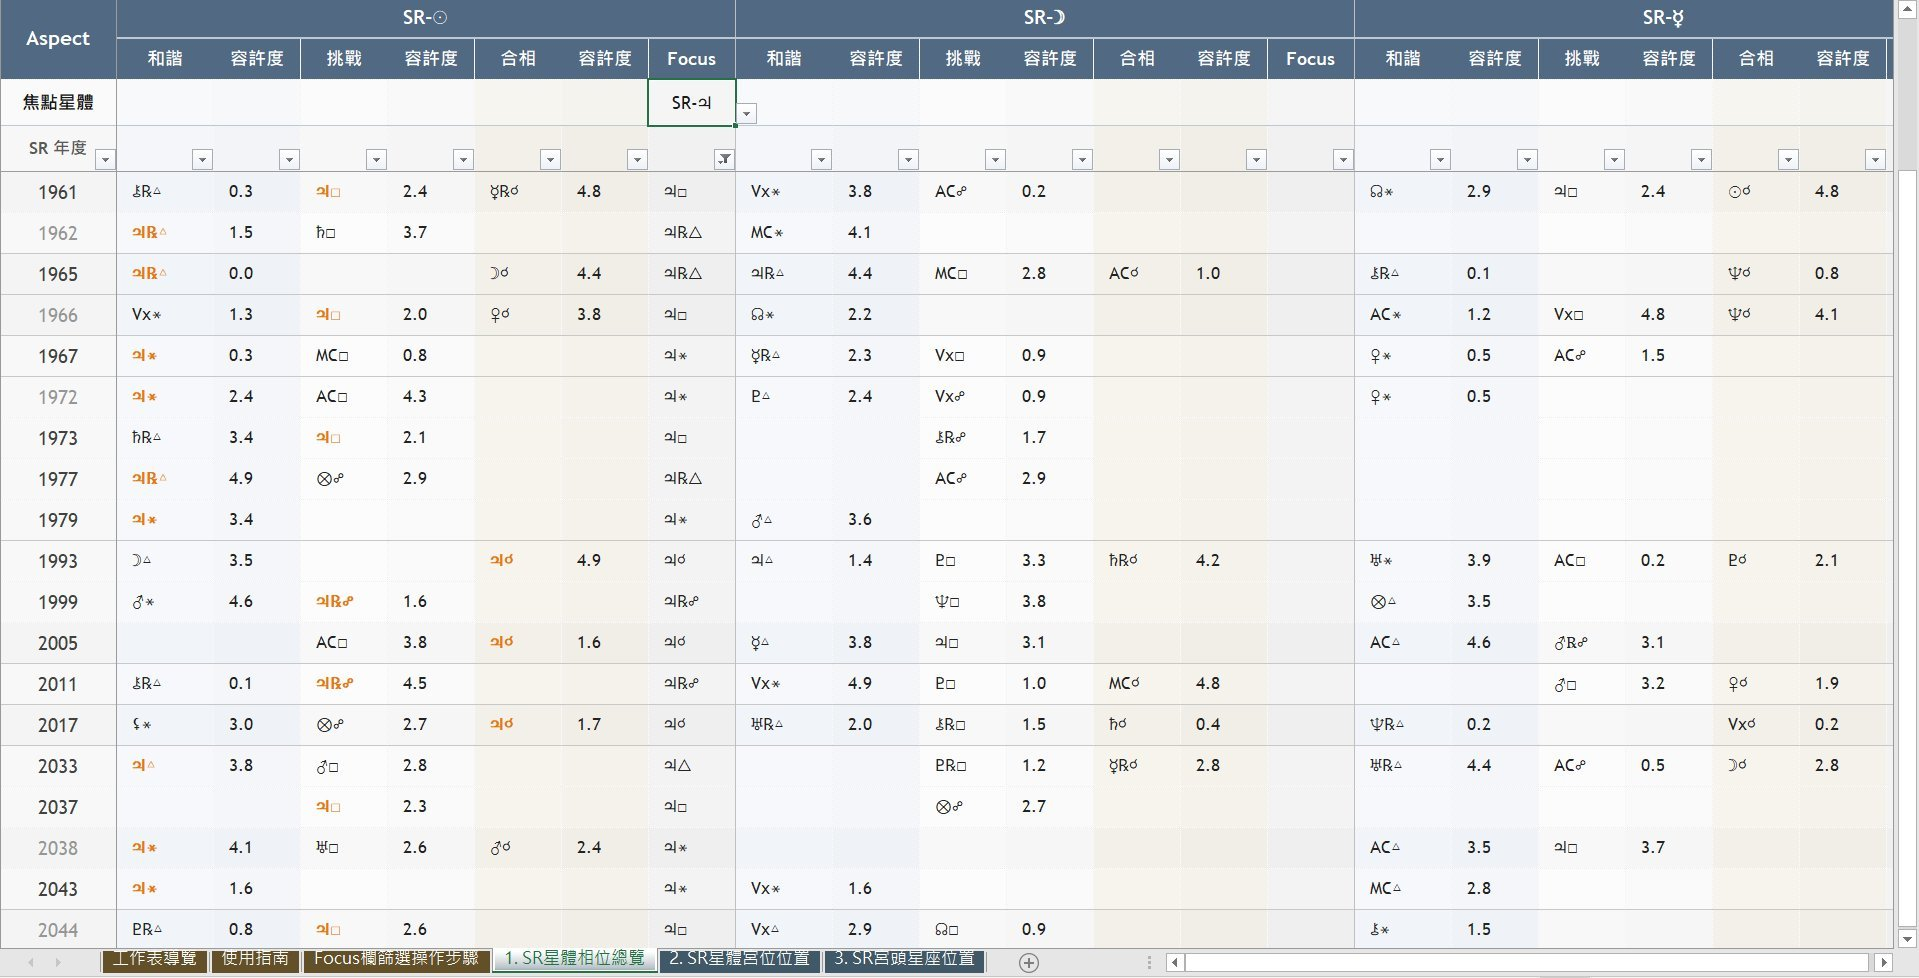
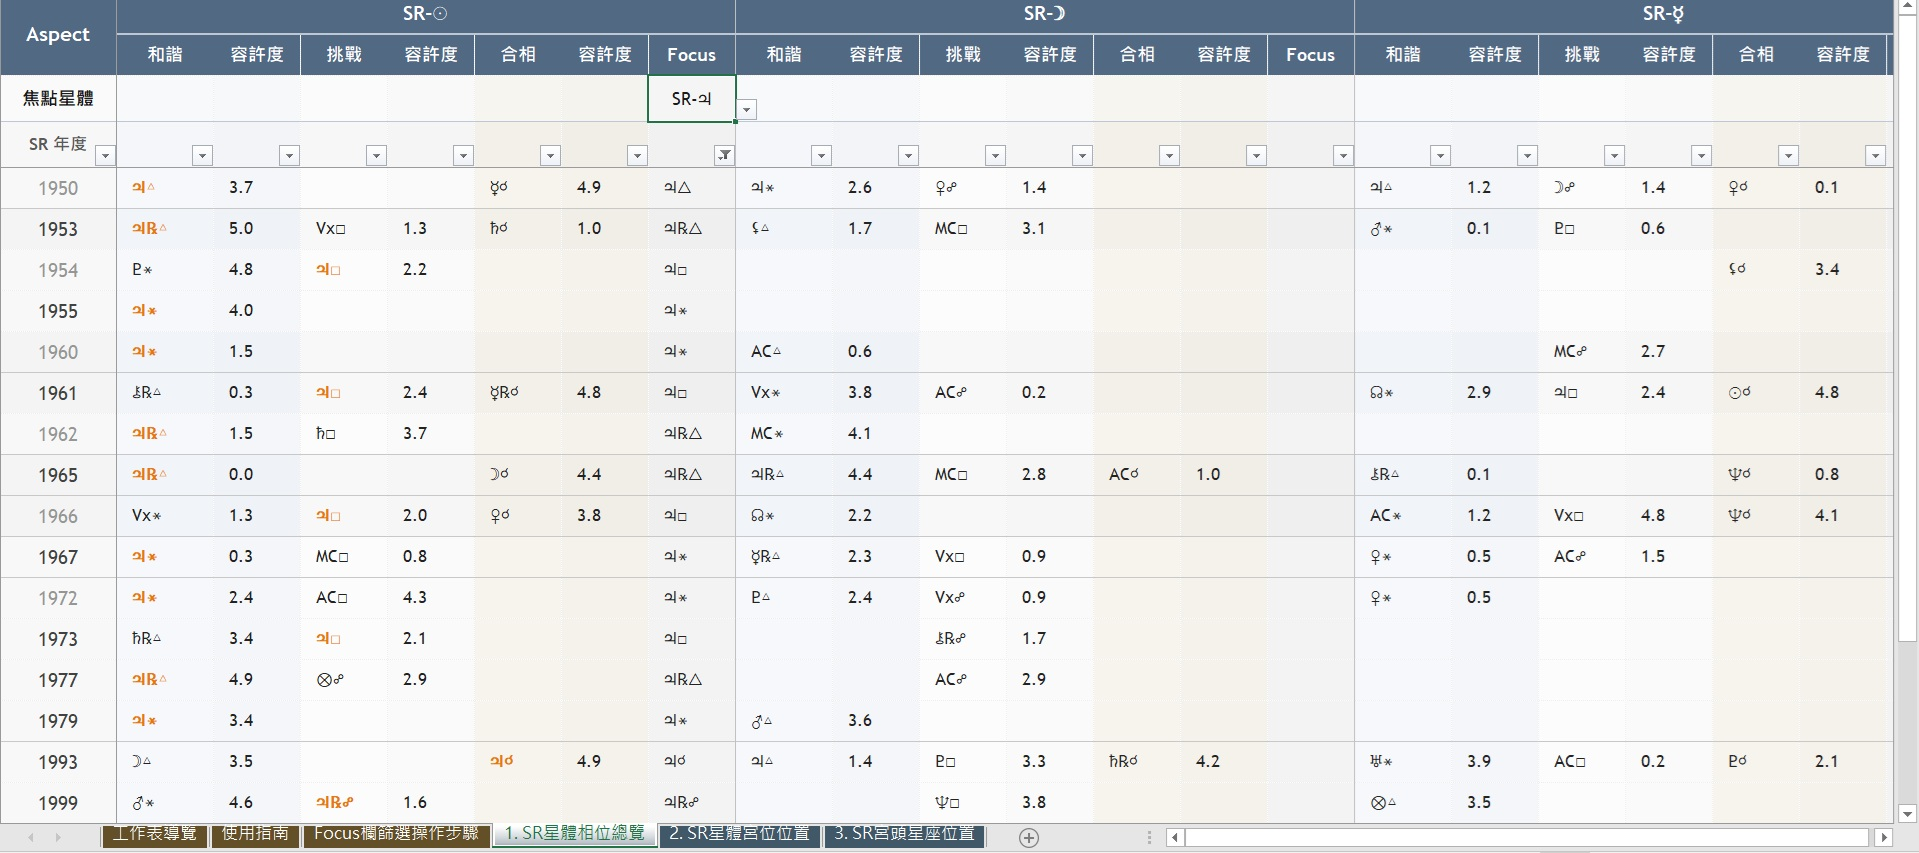
Add files via upload

diff --git a/index.html b/index.html
@@ -477,6 +477,7 @@ const PRODUCTS = {
     zh: '百年太陽回歸 × 本命相位總覽',
     en: 'Solar Return × Natal · Aspects Overview',
     imgs: ['SRN-1.jpg','SRN-2.jpg','SRN-3.jpg','SRN-4.jpg','SRN-5.jpg','SRN-6.jpg'],
+    wideImgs: ['SRN-3.jpg','SRN-4.jpg','SRN-5.jpg','SRN-6.jpg'],
     captions: [
       '工作表導覽 — 4 張工作表，2 大類別',
       'Focus 欄篩選操作步驟 — 六步驟精準篩選相位',
@@ -489,12 +490,15 @@ const PRODUCTS = {
   'SRSR': {
     zh: '太陽回歸 ✦ 相位總覽',
     en: 'Solar Return · Aspects Overview',
-    imgs: ['SRSR-1.jpg','SRSR-2.jpg','SRSR-3.jpg','SRSR-4.jpg'],
+    imgs: ['SRSR-1.jpg','SRSR-2.jpg','SRSR-3.jpg','SRSR-4.jpg','SRSR-5.jpg','SRSR-6.jpg'],
+    wideImgs: ['SRSR-2.jpg','SRSR-3.jpg','SRSR-4.jpg','SRSR-5.jpg','SRSR-6.jpg'],
     captions: [
       '工作表導覽 — 3 張工作表，2 大類別',
       'SR 星體相位總覽 — SR 行星/虛點相位總覽（Focus 欄篩選）',
       'Focus 篩選示範 — 選取 SR-木星，顯示該年份所有相關相位',
-      'Focus 篩選結果 — 僅顯示含 SR-木星的年份'
+      'Focus 篩選結果 — 僅顯示含 SR-木星的年份',
+      'SR 星體宮位位置 — 15 個天體星座、度數、逆行與落入宮位',
+      'SR 宮頭星座位置 — 十二宮宮頭星座與度數'
     ]
   },
   'Ecli': {
@@ -573,12 +577,13 @@ function fitWideImg(area) {
   const img = area.querySelector('img[data-wide].active');
   if (!img) return;
   function apply() {
-    const h = area.offsetHeight;
-    const ratio = img.naturalWidth / img.naturalHeight;
-    // 不超過原始尺寸
-    const fittedH = Math.min(h, img.naturalHeight);
-    img.style.height = fittedH + 'px';
-    img.style.width  = (fittedH * ratio) + 'px';
+    requestAnimationFrame(() => {
+      const h = area.offsetHeight;
+      if (!h) return;
+      const ratio = img.naturalWidth / img.naturalHeight;
+      img.style.height = h + 'px';
+      img.style.width  = (h * ratio) + 'px';
+    });
   }
   if (img.complete && img.naturalHeight) apply();
   else img.addEventListener('load', apply, { once: true });